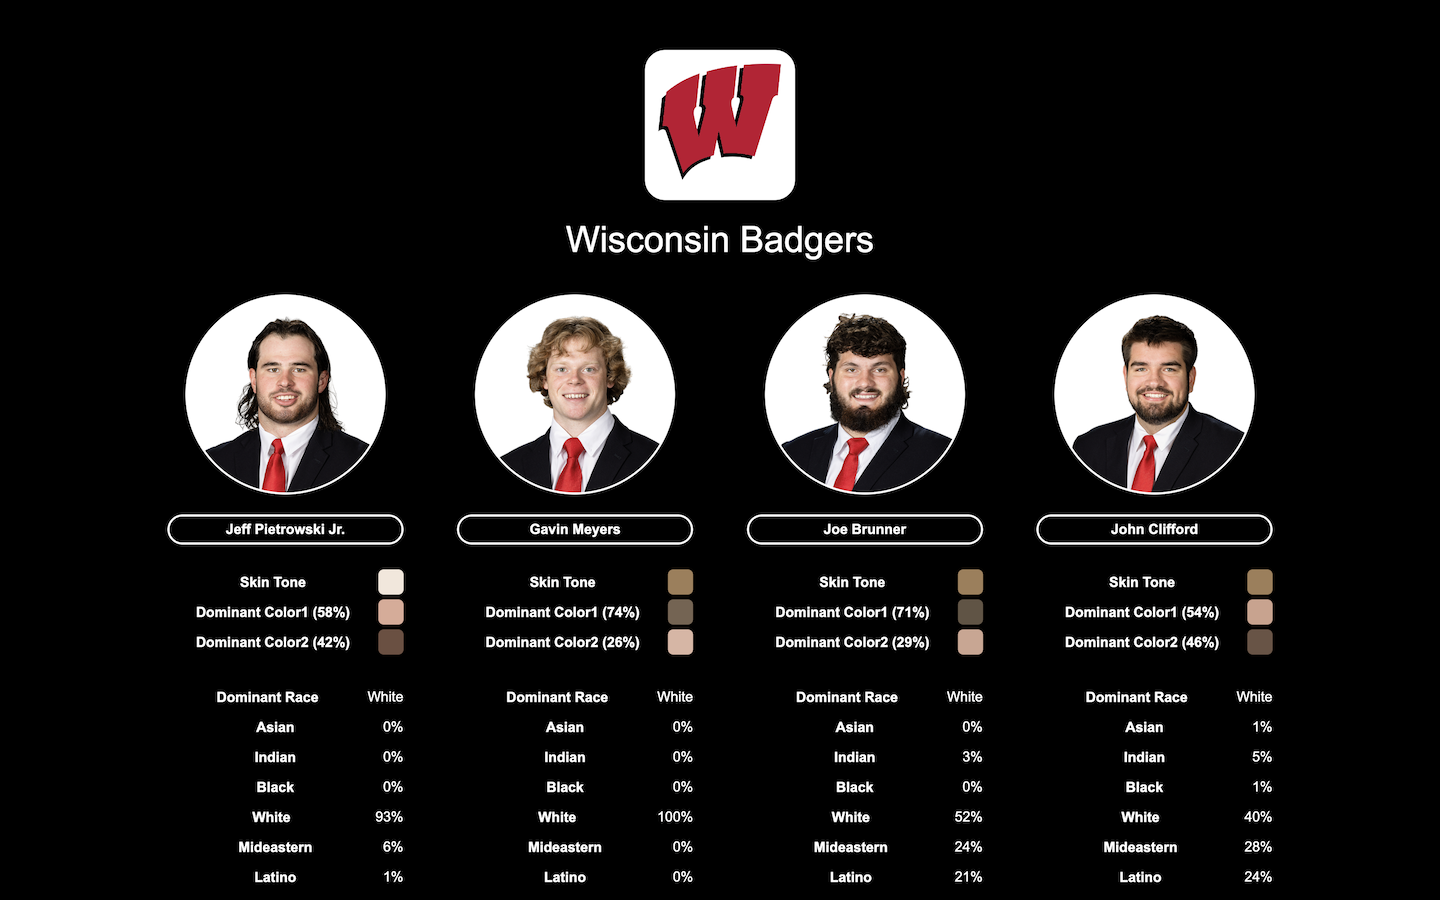
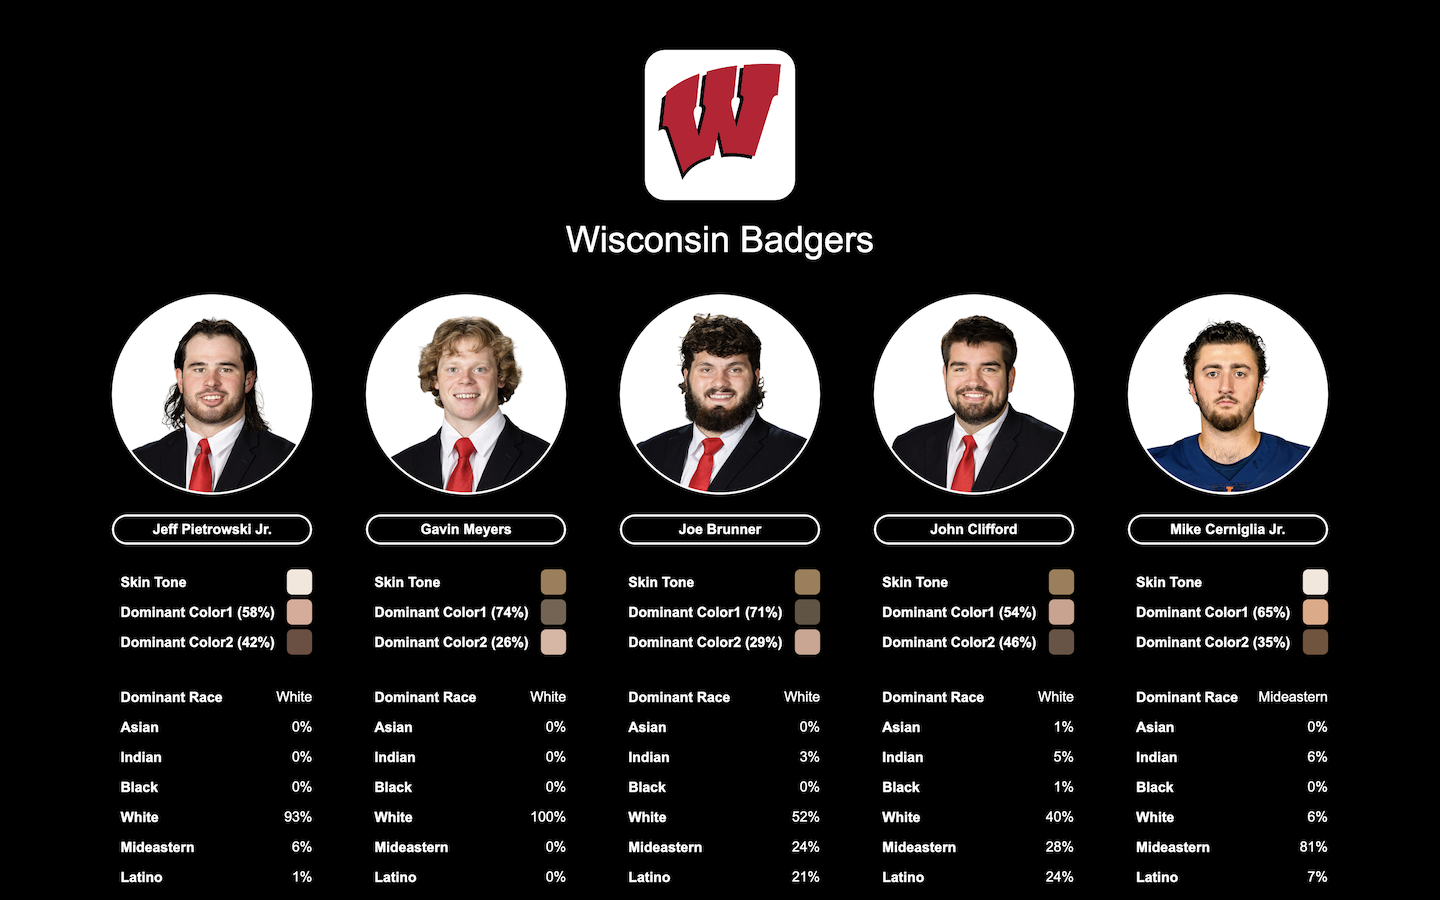
Updated screen shot.

Changed region(s): [[0.0625, 0.3111, 0.9375, 0.9956]]

diff --git a/src/templates/team.css b/src/templates/team.css
@@ -76,14 +76,15 @@ body {
 	}
 
 	.info {
-		text-align: center;
 		line-height: 25px;
+		text-align: left;
 
 		> div {
 			height: 30px;
 		}
 
 		.name {
+			text-align: center;
 			padding: 0 10px;
 			line-height: 26px;
 			font-weight: bold;
@@ -93,7 +94,6 @@ body {
 
 		.label {
 			font-size: 100%;
-			margin: 20px;
 		}
 
 		.value {
